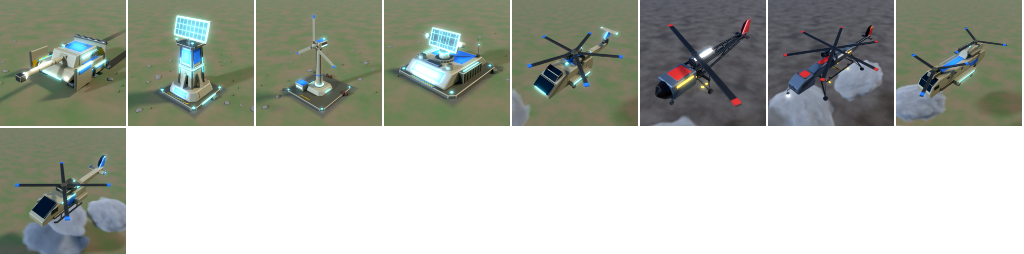
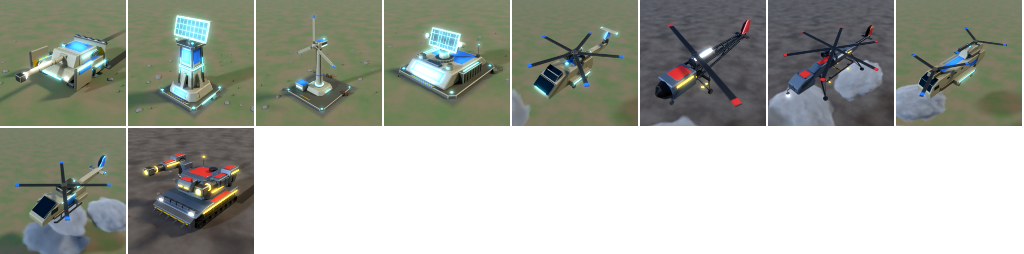
2D E-11: the Goliath's picture (B's E2, S-224) on sheet 4
C's render of the new model packed into sheet 4's next free slot; the icon
sheet no longer lists chs_goliath as retired (display only).

Changed region(s): [[0.125, 0.4961, 0.25, 1.0]]

diff --git a/docs/art/icons/ftgg-unit-icons.html b/docs/art/icons/ftgg-unit-icons.html
@@ -320,7 +320,7 @@ input[type=range] { accent-color: var(--accent); width: 140px; }
       { n: "Adv. Ground Worker", defs: "ord_architect chs_forgemaster", f: "vehicle", s: "construct", t: 2 },
       { n: "Scout", defs: "ord_herald chs_jackal", f: "vehicle", s: "scout", t: 1 },
       { n: "Light Tank", defs: "ord_lancer chs_ravager chs_locust", f: "vehicle", s: "cannon", t: 1 },
-      { n: "Main Battle Tank", defs: "ord_paladin chs_minotaur chs_goliath", f: "vehicle", s: "heavy", t: 2, ch: "The retired Goliath is chs_goliath now (S-213); the Warden left for its own icon" },
+      { n: "Main Battle Tank", defs: "ord_paladin chs_minotaur chs_goliath", f: "vehicle", s: "heavy", t: 2, ch: "The Goliath is chs_goliath (S-213), retired then and back as Chaos's T2 tank (S-224); the Warden left for its own icon" },
       { n: "Deployable Gun", defs: "ord_warden", f: "vehicle", s: "deploy", t: 2, ch: "The Warden unpacks into a fixed emplacement; it was drawn as a Main Battle Tank" },
       { n: "Heavy Plasma Tank", defs: "chs_tzar", f: "vehicle", s: "plasmaHeavy", t: 2 },
       { n: "Artillery", defs: "ord_verdict", f: "vehicle", s: "artillery", t: 1 },
@@ -456,7 +456,7 @@ input[type=range] { accent-color: var(--accent); width: 140px; }
     ]},
   ];
   const NAMES = {"chs_buzzard":"Buzzard","chs_charon":"Charon","ord_ark":"Ark","ord_courier":"Courier","chs_accumulator":"Accumulator","chs_advaccumulator":"Great Accumulator","chs_advairfield":"Advanced Aerodrome","chs_advbotlab":"Advanced Bot Pit","chs_advconverter":"Great Smelter","chs_advdepot":"Great Hoard","chs_advextractor":"Deep Excavator","chs_advfusion":"Great Hellforge","chs_advshipyard":"Advanced Drydock","chs_advsolar":"Advanced Sun Trap","chs_advvehplant":"Advanced Foundry","chs_airfield":"Aerodrome","chs_airpad":"Roost","chs_allseer":"All-Seer","chs_augur":"Augur","chs_banshee":"Banshee","chs_barracuda":"Barracuda","chs_basilisk":"Basilisk","chs_behemoth":"Behemoth","chs_blackout":"Blackout","chs_botlab":"Bot Pit","chs_breaker":"Breaker","chs_bulwark":"Bulwark (Chaos)","chs_carapace":"Carapace","chs_cataclysm":"Cataclysm","chs_centurion":"Centurion","chs_cerberus":"Cerberus","chs_chimera":"Chimera","chs_condor":"Condor","chs_converter":"Smelter","chs_corsair":"Corsair","chs_cyclops":"Cyclops","chs_deepear":"Deepear","chs_depot":"Hoard","chs_dragon":"Dragon","chs_extractor":"Excavator","chs_eye":"Eye","chs_fang":"Fang","chs_forgemaster":"Forgemaster","chs_fusion":"Hellforge","chs_gantry":"Experimental Gantry (Chaos)","chs_generator":"Furnace","chs_geryon":"Geryon","chs_goliath":"Goliath","chs_gorgon":"Gorgon","chs_graverobber":"Graverobber","chs_griffin":"Griffin","chs_guard":"Guard","chs_hailstorm":"Hailstorm","chs_harpy":"Harpy","chs_hellmouth":"Hellmouth","chs_hornet":"Hornet","chs_hydra":"Hydra","chs_inferno":"Inferno","chs_jackal":"Jackal","chs_juggernaut":"Juggernaut","chs_kraken":"Kraken","chs_lamprey":"Lamprey","chs_leech":"Leech","chs_leviathan":"Leviathan","chs_listener":"Listener","chs_locust":"Locust","chs_mammoth":"Mammoth","chs_manticore":"Manticore","chs_maw":"Maw","chs_minotaur":"Minotaur","chs_mire":"Mire","chs_nano":"Construction Turret (Chaos)","chs_needle":"Needle","chs_plague":"Plague","chs_ragnarok":"Ragnarok","chs_ravager":"Ravager","chs_reaver":"Reaver","chs_riptide":"Riptide","chs_rookery":"Rookery","chs_scourge":"Scourge","chs_scrapper":"Scrapper","chs_scylla":"Scylla","chs_seaextractor":"Sunken Excavator","chs_seekerspire":"Seeker Spire","chs_shipyard":"Drydock","chs_shroud":"Shroud","chs_siren":"Siren","chs_skitter":"Skitter","chs_smog":"Smog","chs_solar":"Sun Trap","chs_spike":"Spike","chs_stalker":"Stalker","chs_talos":"Talos","chs_thorn":"Thorn","chs_thug":"Thug","chs_tidal":"Tide Mill","chs_tinker":"Tinker","chs_twin_guard":"Twin Guard","chs_tzar":"Tzar","chs_vehplant":"Vehicle Foundry","chs_vulture":"Vulture","chs_warlord":"Warlord","chs_wasp":"Wasp","chs_watcher":"Watcher","chs_windmill":"Wind Pylon","chs_wraith":"Wraith","chs_wrecker":"Wrecker","chs_wyvern":"Wyvern","ord_absolution":"Absolution","ord_advairfield":"Advanced Airfield","ord_advbotlab":"Advanced Bot Lab","ord_advcapacitor":"Grid Reservoir","ord_advconverter":"Advanced Supply Converter","ord_advdepot":"Supply Vault","ord_advextractor":"Advanced Extractor","ord_advfusion":"Advanced Fusion Reactor","ord_advshipyard":"Advanced Shipyard","ord_advsolar":"Advanced Solar Collector","ord_advvehplant":"Advanced Vehicle Plant","ord_aegis":"Aegis","ord_airfield":"Airfield","ord_airpad":"Aerie","ord_arbiter":"Arbiter","ord_archangel":"Archangel","ord_architect":"Architect","ord_archon":"Archon","ord_artisan":"Artisan","ord_barrier":"Barrier","ord_bastion":"Bastion","ord_beacon":"Beacon","ord_beamer":"Beamer","ord_botlab":"Bot Lab","ord_bulwark":"Bulwark (Order)","ord_capacitor":"Capacitor Bank","ord_choir":"Choir","ord_citadel":"Citadel","ord_converter":"Supply Converter","ord_crusader":"Crusader","ord_curtain":"Curtain","ord_custodian":"Custodian","ord_depot":"Depot","ord_dominion":"Dominion","ord_ear":"Ear","ord_edict":"Edict","ord_empyrean":"Empyrean","ord_extractor":"Extractor","ord_falcon":"Falcon","ord_fatboy":"Fatboy","ord_fusion":"Fusion Reactor","ord_gantry":"Experimental Gantry (Order)","ord_gauntlet":"Gauntlet","ord_generator":"Generator","ord_glint":"Glint","ord_guardian":"Guardian","ord_halo":"Halo","ord_harbormaster":"Harbormaster","ord_herald":"Herald","ord_judgement":"Judgement","ord_kestrel":"Kestrel","ord_lancer":"Lancer","ord_lazarus":"Lazarus","ord_liche":"Liche","ord_lumen":"Lumen","ord_mace":"Mace","ord_mason":"Mason","ord_moat":"Moat","ord_nano":"Construction Turret (Order)","ord_oracle":"Oracle","ord_overwatch":"Overwatch","ord_paladin":"Paladin","ord_phalanx":"Phalanx","ord_phantom":"Phantom","ord_pharos":"Pharos","ord_providence":"Providence","ord_radiance":"Radiance","ord_rampart":"Rampart","ord_reckoning":"Reckoning","ord_sanction":"Sanction","ord_sanctuary":"Sanctuary","ord_sanctum":"Sanctum","ord_seaextractor":"Offshore Extractor","ord_sentry":"Envoy","ord_sentry_tower":"Sentry","ord_seraph":"Seraph","ord_shepherd":"Shepherd","ord_shipyard":"Shipyard","ord_silence":"Silence","ord_skywright":"Skywright","ord_solar":"Solar Array","ord_sovereign":"Sovereign","ord_tidal":"Tidal Generator","ord_tideguard":"Tideguard","ord_tidewatch":"Tidewatch","ord_tidewright":"Tidewright","ord_titan":"Titan","ord_tribunal":"Tribunal","ord_undertow":"Undertow","ord_vehplant":"Vehicle Plant","ord_veil":"Veil","ord_veilspire":"Veilspire","ord_verdict":"Verdict","ord_vigil":"Vigil","ord_warden":"Warden","ord_watchtower":"Watchtower","ord_windmill":"Wind Turbine","ord_witness":"Witness","ord_zenith":"Zenith"};
-  const RETIRED = new Set(["chs_generator","chs_goliath","chs_inferno","chs_spike","ord_bulwark","ord_generator"]);
+  const RETIRED = new Set(["chs_generator","chs_inferno","chs_spike","ord_bulwark","ord_generator"]);
   const nm = (d) => (NAMES[d] || d) + (RETIRED.has(d) ? " (retired)" : "");
   const slug = (it) => it.n.toLowerCase().replace(/[^a-z0-9]+/g, "_").replace(/^_|_$/g, "") + "_t" + it.t;
   const SCALE = { 0: 1, 1: 1, 2: 1.15, 3: 1.3 };

diff --git a/docs/progress/2d.md b/docs/progress/2d.md
@@ -454,7 +454,7 @@ For client-B.
 - **sim-A, S-213 (main `7ac4df3f`):** the Chaos T3 bot is now `chs_juggernaut` (was `chs_korgoth`), and the retired T2 tank is `chs_goliath` (was `chs_juggernaut`). Both need sheet entries under the new ids. The Titan and the T3 Juggernaut need their own art instead of the T2 tank tile.
   - Answered 2026-10-29: open, part of E-3. E-3 merges `main` into `2d` first, so `check.mjs` sees the new ids.
   - B swaps the `IconAtlas` keys after E-6.
-- **B's E2 / sim-A, S-224 (2026-10-30): a build-menu picture for the Goliath (`chs_goliath`)**, back as Chaos's T2 main battle tank. Open, waiting for models-C's new model:
+- **B's E2 / sim-A, S-224 (2026-10-30): a build-menu picture for the Goliath (`chs_goliath`)**, back as Chaos's T2 main battle tank. **Done:** C rendered it from the user-approved new model. E packed it on sheet 4 at [128,128], in the second row after the Courier. 202/202 defs have a picture. Only `ftgg-unit-pictures-4.png` changed (sha256 starts `84c984c4`), so sheet 4's id `111703066289053` is stale until B re-uploads it with the user's approval. On the icon sheet the Goliath is off `RETIRED`, which is display only, so no re-upload. The plan was:
   - Its unit icon stays "Main Battle Tank" (`main_battle_tank_t2`). Once S-224 is on `main`, E takes it off the sheet's `RETIRED` list. That is display only; the tiles don't change.
   - When S-224 lands, E merges `main` and lists it under `missing` in `pictures.json`, so B shows the live portrait and no sheet changes.
   - E asked C for a render (`pictures.py -- --ids chs_goliath`) from the new model. It goes into a free slot on sheet 4, followed by a Ready line. Only sheet 4 needs a re-upload.
